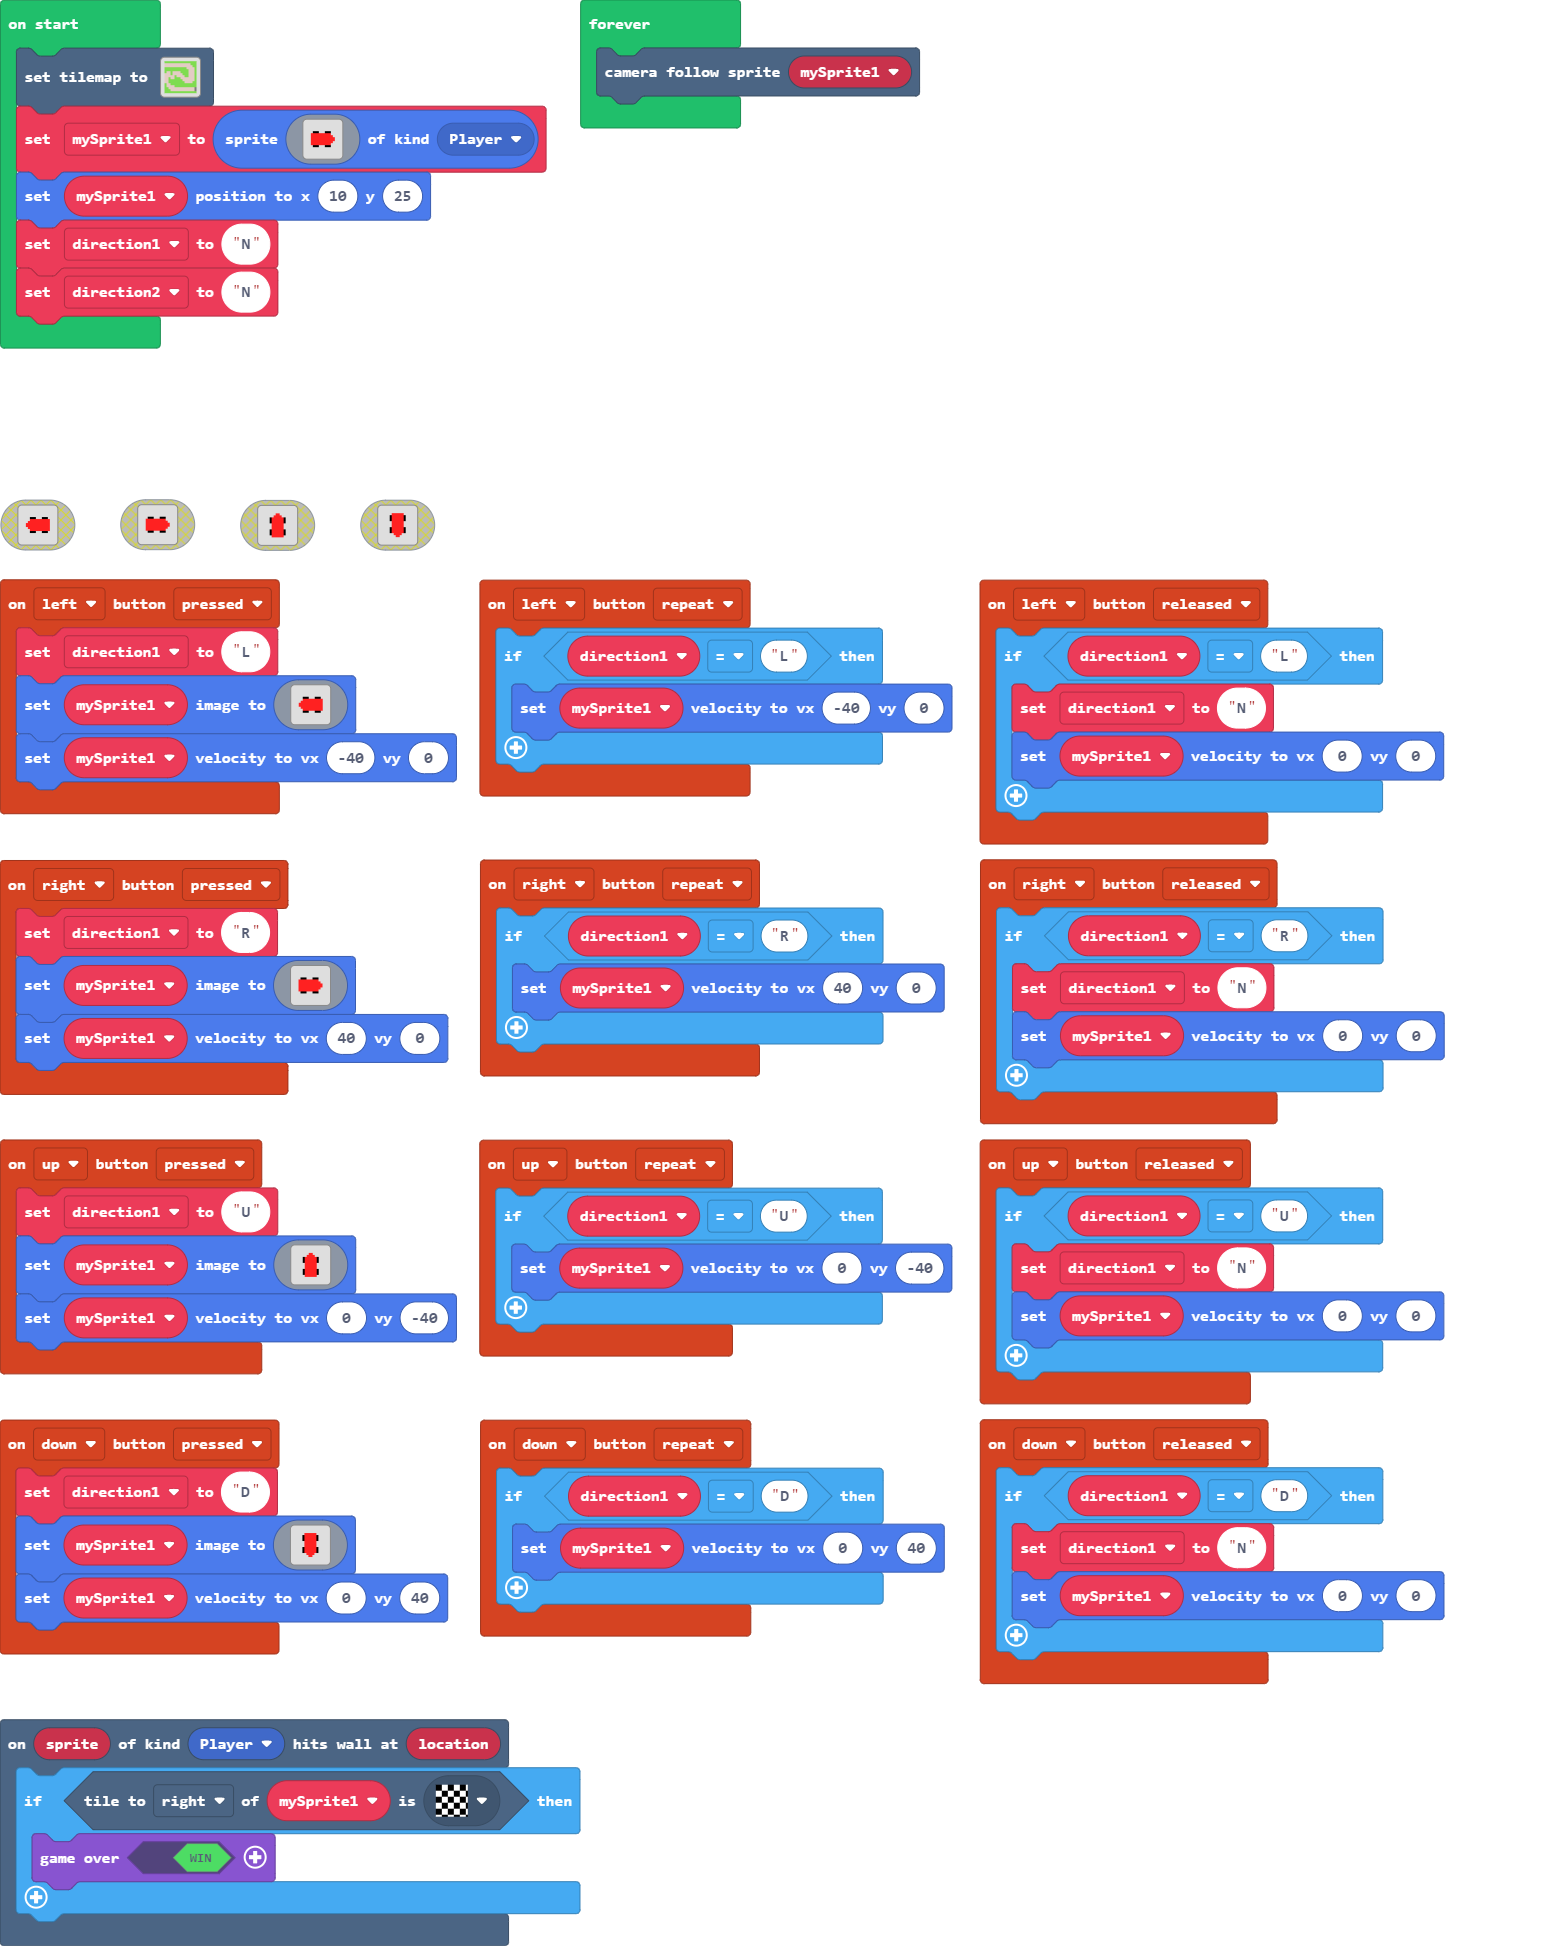
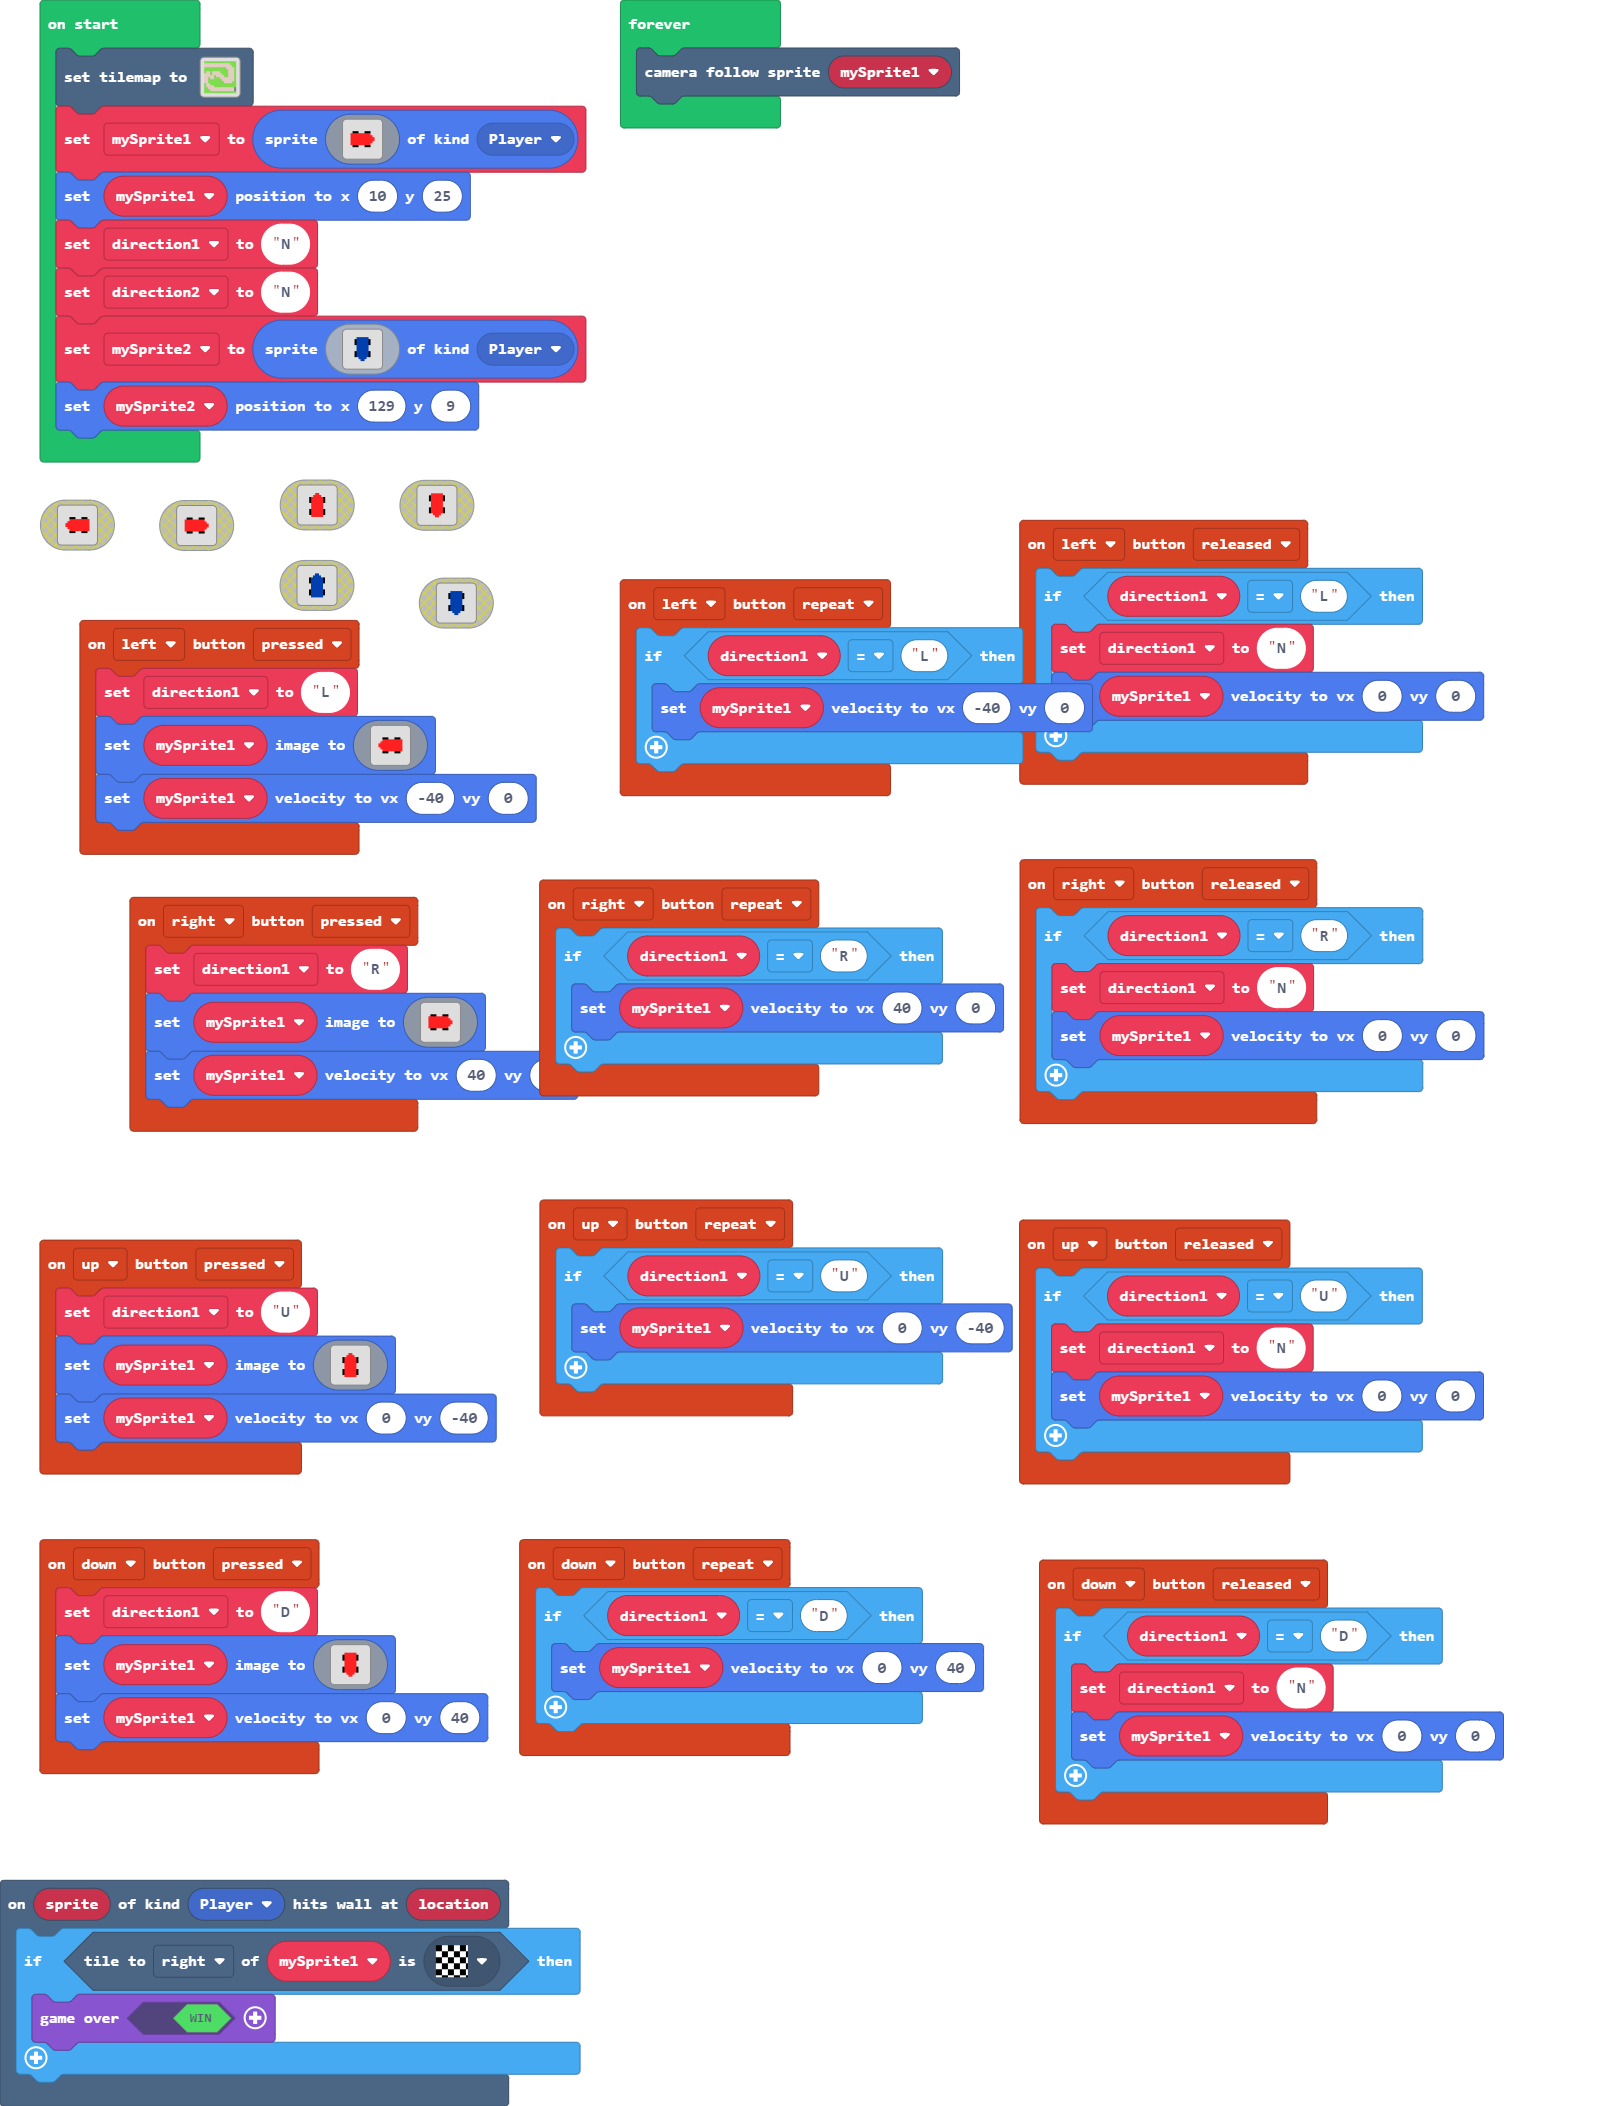
added cars plz finish for me

diff --git a/tilemap.g.ts b/tilemap.g.ts
@@ -28,10 +28,10 @@ namespace myTiles {
 . . . 2 2 2 2 2 2 2 2 2 2 2 2 2 
 `, [myTiles.transparency16,sprites.castle.tilePath5,myTiles.tile1,sprites.castle.tileGrass1], TileScale.Sixteen)
             case "level_0": return tiles.createTilemap(hex`1000100003030303030303030303030303030303010101010101010101010101010303030101010101010101010101010101030303030303030303030303030101010103030303030303030303030303010101030301010301010101030303030101010301010103010101010103030301010103010101010103010101010303010101030101030101030303010101010101010301010303030303030301010101010103010103030303030303030101010103030301010303030303030303030303030303010101010303030303030303030303030301010101010101010101010101020303030101010101010101010101010203030303030303030303030303030303`, img`
-2 2 2 2 2 2 2 2 2 2 2 2 2 . . . 
+2 2 2 2 2 2 2 2 . 2 2 2 2 . . . 
 . . . . . . . . . . . . . 2 . . 
 . . . . . . . . . . . . . . 2 . 
-2 2 2 2 2 2 . 2 2 2 2 . . . . 2 
+2 2 2 2 2 2 . 2 . 2 2 . . . . 2 
 2 2 2 2 2 2 . 2 2 2 2 2 . . . 2 
 2 . . 2 . . . . 2 2 2 2 . . . 2 
 . . . 2 . . . . . 2 2 2 . . . 2 

diff --git a/main.ts b/main.ts
@@ -159,6 +159,25 @@ mySprite1 = sprites.create(img`
 mySprite1.setPosition(10, 25)
 direction1 = "N"
 let direction2 = "N"
+let mySprite2 = sprites.create(img`
+    . . . . . . . . . . . . . . . . 
+    . . . . . . . . . . . . . . . . 
+    . . . . . 8 8 8 8 8 8 . . . . . 
+    . . . . f 8 8 8 8 8 8 f . . . . 
+    . . . . f 8 8 8 8 8 8 f . . . . 
+    . . . . f 8 8 8 8 8 8 f . . . . 
+    . . . . . 8 8 8 8 8 8 . . . . . 
+    . . . . . 8 8 8 8 8 8 . . . . . 
+    . . . . . 8 8 8 8 8 8 . . . . . 
+    . . . . f 8 8 8 8 8 8 f . . . . 
+    . . . . f 8 8 8 8 8 8 f . . . . 
+    . . . . f 8 8 8 8 8 8 f . . . . 
+    . . . . . . 8 8 8 8 . . . . . . 
+    . . . . . . . 8 8 . . . . . . . 
+    . . . . . . . . . . . . . . . . 
+    . . . . . . . . . . . . . . . . 
+    `, SpriteKind.Player)
+mySprite2.setPosition(129, 9)
 forever(function () {
     scene.cameraFollowSprite(mySprite1)
 })
